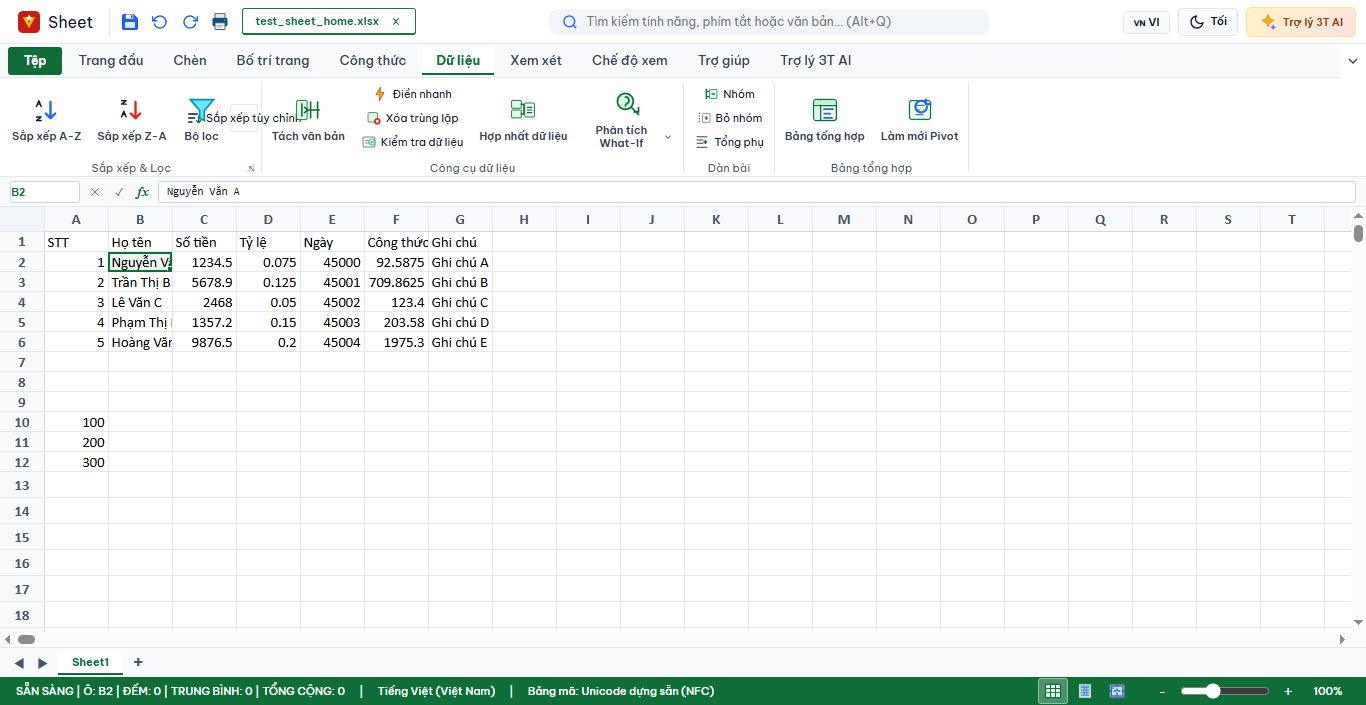
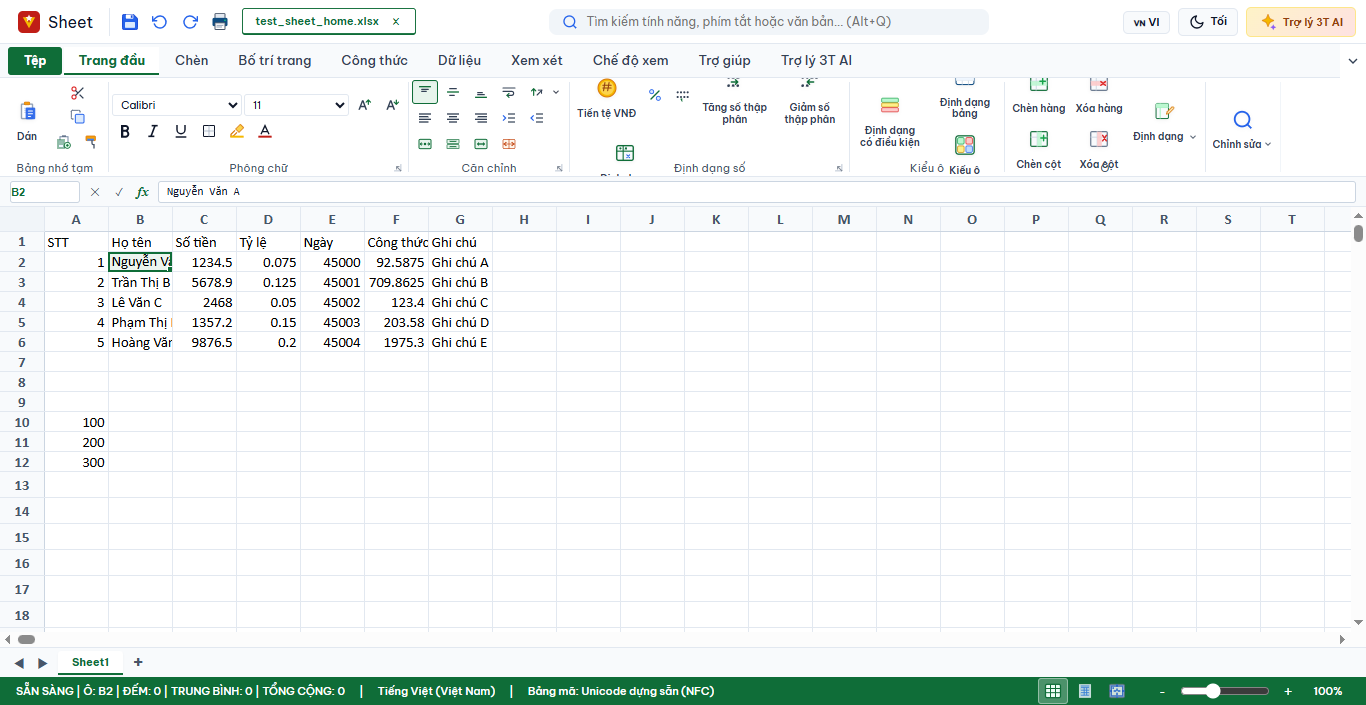
fix(sheet): prevent alignment ribbon overlap

Changed region(s): [[0.0, 0.0624, 0.9224, 0.2496], [0.5227, 0.0624, 0.6457, 0.0936], [0.0922, 0.3433, 0.123, 0.3745]]

diff --git a/apps/sheet/sheet-ribbon.js b/apps/sheet/sheet-ribbon.js
@@ -149,7 +149,7 @@ export const SHEET_RIBBON_TABS = [
               {
                 type: "row",
                 items: [
-                  { type: "button", commandId: "sheet.cell.mergeCenter", isLarge: true },
+                  { type: "button", commandId: "sheet.cell.mergeCenter", iconOnly: true },
                   { type: "button", commandId: "sheet.cell.mergeAcross", iconOnly: true },
                   { type: "button", commandId: "sheet.cell.mergeCells", iconOnly: true },
                   { type: "button", commandId: "sheet.cell.unmerge", iconOnly: true }

diff --git a/scripts/audit-0610/gen_sheet_button_matrix.py b/scripts/audit-0610/gen_sheet_button_matrix.py
@@ -26,6 +26,10 @@ mark(MATCH, "sheet.chart.insert", "FIX-S9: Excel COM read-only xác nhận loạ
 mark(MATCH, "sheet.cell.alignLeft", "FIX-S12 Trang dau: CDP click Can trai; Excel COM ReadOnly xac nhan B2 HorizontalAlignment=-4131 (app_S12_alignLeft.xlsx)")
 mark(MATCH, "sheet.cell.alignCenter", "FIX-S12 nhóm Trang đầu: CDP click căn giữa; Excel COM ReadOnly HAl=-4108 tại B2 (app_alignCenter.xlsx)")
 mark(MATCH, "sheet.cell.alignRight", "FIX-S12 nhóm Trang đầu: CDP click căn phải; Excel COM ReadOnly HAl=-4152 tại B2 (app_alignRight.xlsx)")
+mark(MATCH, "sheet.cell.alignTop", "FIX-S14: Nút Trộn & căn giữa cao 72px làm cột 3 hàng tràn lên che vùng tab; chuyển nó về icon nhỏ có tooltip. CDP bấm Căn trên, Excel COM ReadOnly xác nhận VerticalAlignment(B2)=-4160 (app_S14_fixed_alignTop.xlsx); ảnh docs/tickets-0710/evidence/fix-s12-alignTop.png.")
+mark(MATCH, "sheet.cell.alignMiddle", "FIX-S14: sau khi sửa bố cục nhóm Căn chỉnh, CDP bấm Căn giữa dọc; Excel COM ReadOnly xác nhận VerticalAlignment(B2)=-4108 (app_S14_fixed_alignMiddle.xlsx); ảnh docs/tickets-0710/evidence/fix-s12-alignMiddle.png.")
+mark(MATCH, "sheet.cell.alignBottom", "FIX-S14: sau khi sửa bố cục nhóm Căn chỉnh, CDP bấm Căn dưới; Excel COM ReadOnly xác nhận VerticalAlignment(B2)=-4107 (app_S14_fixed_alignBottom.xlsx); ảnh docs/tickets-0710/evidence/fix-s12-alignBottom.png.")
+mark(MATCH, "sheet.cell.wrapText", "FIX-S14: sau khi sửa bố cục nhóm Căn chỉnh, CDP bấm Ngắt dòng tự động; Excel COM ReadOnly xác nhận WrapText=1, RowHeight=30 cho B2 (app_S14_fixed_wrap.xlsx); ảnh docs/tickets-0710/evidence/fix-s12-wrap.png.")
 mark(MATCH, "sheet.format.currencyVND", "FIX-S12 Trang dau: CDP click Tien te VNĐ; Excel COM ReadOnly doc lai C2=1234.5, NumberFormat=#,##0 [$₫], hien thi 1,235 ₫ (app_S12_currencyBtn.xlsx)")
 mark(MATCH, "sheet.format.percent", "FIX-S12 nhóm Trang đầu: CDP click Phần trăm; Excel COM ReadOnly D2=0.075, NumberFormat=0% (app_percentBtn.xlsx)")
 mark(MATCH, "sheet.format.increaseDecimal", "FIX-S12 nhóm Trang đầu: CDP click Tăng số thập phân; Excel COM ReadOnly C2=1234.5, NumberFormat=0.00 (app_decInc.xlsx)")

diff --git a/docs/tickets-0710/FIX-S12-RESULTS.md b/docs/tickets-0710/FIX-S12-RESULTS.md
@@ -187,17 +187,16 @@
 
 ## S12 continuation in worktree S14 (2026-10-12)
 
-- Starting matrix from main: 72 KHỚP EXCEL / 66 CHƯA ĐỐI CHIẾU. Current generated matrix: **90 KHỚP EXCEL / 1 LỆCH ĐÃ BIẾT / 47 CHƯA ĐỐI CHIẾU**; no evidence was added for failed or inconclusive probes.
+- Starting matrix from main: 72 KHỚP EXCEL / 66 CHƯA ĐỐI CHIẾU. Current generated matrix: **94 KHỚP EXCEL / 1 LỆCH ĐÃ BIẾT / 43 CHƯA ĐỐI CHIẾU**; no evidence was added for failed or inconclusive probes.
 - New read-only Excel COM evidence: Formula named range (`S12Cell -> B2`), `#DIV/0!` error checking, formula recalculation (`F2=92.5875`), image (`Shapes.Count=1`, `TopLeft=B2`), comment insertion/deletion, page size Legal, print scale 80%, row 1 print titles, and page-break insert/remove. Hyperlink export regression fixed in the Sheet adapter/parser; Excel confirms one hyperlink at G2. Existing Vietnamese Help and VI/EN i18n cover hyperlink insertion.
-- Comment Previous/Next remain CHƯA ĐỐI CHIẾU: on a workbook containing comments at C2/D2, real CDP clicks navigated Previous D2→C2 and Next C2→D2 (screenshots in evidence). Excel COM ReadOnly found both comments in the saved XLSX but reopened with `ActiveCell=A1`, so the transient navigation state was not retained for saved-file comparison. Home vertical alignment/wrap remain unchecked; CDP diagnostics show the click did not act on the intended ribbon control. No product behavior was inferred from those clicks.
-- **PASS** `npm test`: 3089/3089.
-- **PASS** `python -m unittest discover -s tests`: 883 tests, 506.094 seconds, OK. Python emitted `ResourceWarning` for open subprocess streams; no test failed.
-- **PASS** dirty-save XLSX batch for lan01/02/04/06/09/11/22/26: 8/8 saved, `diffs=0`, lint clean, Excel PASS. Report: `E:\VNOffice-profiles\codex-fs14\batch-xlsx\batch_document_audit_report.md`.
-- Final verification after the Header/Footer UI fix: **PASS** `npm test` 3089/3089; **FAIL** Python discovery 883 tests with one unrelated repeatable AutoRecover failure, `test_global_count_and_total_byte_limits_prune_old_snapshots` (`status=error`, expected `ok`); the focused test rerun failed the same way. **PASS** dirty-save XLSX batch 8/8 (`saved=yes`, `diffs=0`, lint clean, Excel PASS).
+- Comment Previous/Next remain CHƯA ĐỐI CHIẾU: on a workbook containing comments at C2/D2, real CDP clicks navigated Previous D2→C2 and Next C2→D2 (screenshots in evidence). Excel COM ReadOnly found both comments in the saved XLSX but reopened with `ActiveCell=A1`, so the transient navigation state was not retained for saved-file comparison. No product behavior was inferred from those clicks.
+- Initial baseline before the latest UI fixes: **PASS** `npm test` 3089/3089; **PASS** Python discovery 883 tests in 506.094 seconds; **PASS** dirty-save XLSX batch 8/8 (`saved=yes`, `diffs=0`, lint clean, Excel PASS). The initial Python run emitted subprocess `ResourceWarning`s.
+- Final verification after Header/Footer and alignment fixes: **PASS** `npm test` 3089/3089; **FAIL** Python discovery 883 tests with one Writer HTML test error, `test_real_docx_html_has_data_uri_not_sidecar_path`; focused rerun **PASS** 1/1. An intermediate full run failed `test_global_count_and_total_byte_limits_prune_old_snapshots` and its focused rerun also failed; both failures are outside Sheet and were not modified. **PASS** dirty-save XLSX batch 8/8 (`saved=yes`, `diffs=0`, lint clean, Excel PASS). Report: `E:\VNOffice-profiles\codex-fs14\batch-xlsx\batch_document_audit_report.md`.
 - **PASS** Insert sparklines: real CDP selection of `C2:C6` and ribbon commands created a line or column sparkline in active cell `C6`; Excel COM ReadOnly reported `SparklineGroups.Count=1`, `Type=1` (line) and `Type=2` (column). VI Help and VI/EN i18n already describe the feature; screenshots are in `docs/tickets-0710/evidence/fix-s12-sparkline*.png`.
 - **KNOWN GAP** PivotChart: CDP inserted the Pivot bar chart from an existing PivotTable. Excel COM ReadOnly found `PivotTables=1`, `Charts=1`, `ChartType=51`, but `Chart.PivotLayout.PivotTable.Name` was empty and `PivotFields=0`; it is a regular chart without a Pivot link. Screenshot: `docs/tickets-0710/evidence/fix-s12-pivotChart.png`. Existing Vietnamese Help and VI/EN i18n claim the chart is linked to Pivot data. A real fix requires changing XLSX OOXML semantics, so this is gated for the owner's decision per `AGENTS.md` §11.
 - **PASS** Insert Function: real CDP opened Formula > Insert Function, searched/select `TODAY`, and inserted it in H2. Excel COM ReadOnly confirmed `Formula='=TODAY()'`, `Value2=46307`, `NumberFormat=dd/mm/yyyy` in `app_S14_final_insertFunction.xlsx`; screenshot `docs/tickets-0710/evidence/fix-s12-insertFunction.png`. Existing Vietnamese Help and VI/EN i18n describe the fx dialog and category buttons.
 - **PASS** Use in Formula: opened the workbook containing `S12Cell`, used the name picker to insert it in H2 via CDP, and Excel COM ReadOnly confirmed `Formula='=S12Cell'`, `Value2='Nguyễn Văn A'`, and one defined name in `app_S14_useInFormula.xlsx`; screenshot `docs/tickets-0710/evidence/fix-s12-useInFormula.png`. Existing Help and VI/EN i18n cover the command.
 - `Create from Selection` probe: CDP selected A1:C6 and created three names; Excel COM confirmed `Names.Count=3` and the B2:B6/C2:C6 references. Vietnamese headings normalized to `H__t_n` and `S__ti_n`; exact name normalization versus Excel is not established, so it remains CHƯA ĐỐI CHIẾU.
 - **PASS** Header/Footer: the first probe exposed a clipped right input that sent typing into O3. Scoped the dialog width/input sizing; real CDP filled “Phải” with `VN Office S12`, and Excel COM ReadOnly confirmed `PageSetup.RightHeader='VN Office S12'` in `app_S14_fixed_headerFooter.xlsx`; screenshot `docs/tickets-0710/evidence/fix-s12-headerFooter.png`. Existing Help and VI/EN i18n cover the controls.
-- Matrix generator passed. The S14 CDP probe was refined to choose rendered tab/panel nodes and wait after tab changes. Hit testing for `sheet.cell.alignTop` found its sole command node at `(412,56)` while the Home panel starts at `y=78`; `document.elementFromPoint` resolves the tab strip instead of the command. The runner now rejects this occluded target (`NO_BUTTON`) rather than recording a misleading click. Alignment remains unchecked pending a ribbon layout/input fix. Remaining 47 buttons are unchecked; the PivotChart mismatch is recorded separately as a known gap. FIX-S12 remains open.
+- **PASS** Home alignment: the 72px large Merge & Center button overflowed the 72px alignment column's three rows, pushing the two upper rows 26px into the tab strip. Making Merge & Center an icon button with its tooltip kept all three rows inside the panel. CDP clicked Top/Middle/Bottom; Excel COM ReadOnly confirmed `VerticalAlignment(B2)` = -4160/-4108/-4107. Wrap Text also clicked and Excel confirmed `WrapText=1`, `RowHeight=30`. Evidence: `app_S14_fixed_alignTop.xlsx`, `app_S14_fixed_alignMiddle.xlsx`, `app_S14_fixed_alignBottom.xlsx`, `app_S14_fixed_wrap.xlsx`; screenshots `fix-s12-alignTop.png`, `fix-s12-alignMiddle.png`, `fix-s12-alignBottom.png`, `fix-s12-wrap.png`.
+- Matrix generator passed. The S14 CDP probe chooses rendered tab/panel nodes, checks the hit target, and waits after tab changes. The alignment fix moves the first row to y=80 inside the panel at y=78; all four targeted controls now have Excel COM readback. Remaining 43 buttons are unchecked; the PivotChart mismatch is recorded separately as a known gap. FIX-S12 remains open.

diff --git a/docs/AGENT-HANDOFF-FIX-S12-CODEX-S14.md b/docs/AGENT-HANDOFF-FIX-S12-CODEX-S14.md
@@ -5,14 +5,14 @@ AGENT/ROLE: Codex / Sheet ribbon audit
 BRANCH: `audit/sheet-s14-codex`
 WORKTREE: `E:\VNOffice-codex-fs14`
 OBJECTIVE: Compare the 138 Sheet ribbon commands against Excel using real CDP UI actions and read-only Excel COM inspection of the saved XLSX files.
-FINDINGS: The matrix is now 90 KHỚP EXCEL / 1 LỆCH ĐÃ BIẾT / 47 CHƯA ĐỐI CHIẾU (72/66 at this worktree's start). Hyperlink export was fixed in the adapter/parser and verified in Excel. Formula name/error/recalculation/Insert Function (`=TODAY()`)/Use in Formula (`=S12Cell`), image, both Sparkline types, comments insert/delete, Header/Footer, and page layout actions gained saved-file evidence. Create from Selection is still unchecked because Vietnamese-name normalization has not been compared with Excel. PivotChart is a known gap: Excel COM found no PivotTable link or PivotFields in the exported chart. Comment Previous/Next navigate between C2/D2 in CDP, but remain unchecked because Excel reopens the saved file at A1. Home alignment remains unchecked: hit testing found the `alignTop` node at `(412,56)` under the ribbon tabs while its panel starts at `y=78`, and the hit target is the tab strip. The runner now refuses to count this as a button click. See `docs/tickets-0710/FIX-S12-RESULTS.md` and `docs/SHEET-BUTTON-MATRIX-1011.md`.
+FINDINGS: The matrix is now 94 KHỚP EXCEL / 1 LỆCH ĐÃ BIẾT / 43 CHƯA ĐỐI CHIẾU (72/66 at this worktree's start). Hyperlink export was fixed in the adapter/parser and verified in Excel. Formula name/error/recalculation/Insert Function (`=TODAY()`)/Use in Formula (`=S12Cell`), image, both Sparkline types, comments insert/delete, Header/Footer, vertical alignment, wrap, and page layout actions gained saved-file evidence. Create from Selection is still unchecked because Vietnamese-name normalization has not been compared with Excel. PivotChart is a known gap: Excel COM found no PivotTable link or PivotFields in the exported chart. Comment Previous/Next navigate between C2/D2 in CDP, but remain unchecked because Excel reopens the saved file at A1. The Merge & Center button had made the 3-row alignment column overflow upward; it is now an icon button with tooltip and all four alignment/wrap commands pass readback. See `docs/tickets-0710/FIX-S12-RESULTS.md` and `docs/SHEET-BUTTON-MATRIX-1011.md`.
 IMPLEMENTATION SUMMARY: Reused the existing CDP runner, Excel COM reader, matrix generator, adapter export path, and in-app Help/i18n. Fixed hyperlink persistence in the Sheet FODS save/load path. No LibreOffice Core changes and no new dependencies.
-FILES CHANGED: `apps/sheet/sheet-grid.js`, `apps/sheet/sheet.css`, `adapters/libreoffice/sheet/sheet-adapter.js`, `adapters/libreoffice/sheet/sheet-payload-parser.js`, `tests/unit/sheet-comments-printarea.test.js`, `scripts/audit-0610/gen_sheet_button_matrix.py`, `scripts/audit-0610/word_parallel/app-ops-sheet.desktop.mjs`, `scripts/audit-0610/word_parallel/excel-read.ps1`, `docs/SHEET-BUTTON-MATRIX-1011.md`, `docs/tickets-0710/FIX-S12-RESULTS.md`, and `docs/tickets-0710/evidence/fix-s12-*.png`.
+FILES CHANGED: `apps/sheet/sheet-grid.js`, `apps/sheet/sheet.css`, `apps/sheet/sheet-ribbon.js`, `adapters/libreoffice/sheet/sheet-adapter.js`, `adapters/libreoffice/sheet/sheet-payload-parser.js`, `tests/unit/sheet-comments-printarea.test.js`, `scripts/audit-0610/gen_sheet_button_matrix.py`, `scripts/audit-0610/word_parallel/app-ops-sheet.desktop.mjs`, `scripts/audit-0610/word_parallel/excel-read.ps1`, `docs/SHEET-BUTTON-MATRIX-1011.md`, `docs/tickets-0710/FIX-S12-RESULTS.md`, and `docs/tickets-0710/evidence/fix-s12-*.png`.
 COMMANDS RUN: `npm test`; `python -m unittest discover -s tests`; dirty-save XLSX batch for lan01/02/04/06/09/11/22/26; Sheet matrix generator; CDP + Excel COM read-only probes; `node --check` for the runner; UTF-8/no-BOM scan of changed text files; `git diff --check` for worktree and branch diff.
 BUILD RESULT: NOT RUN separately; no build-system change.
-TEST RESULTS: Final after Header/Footer UI fix: PASS `npm test`, 3089/3089. FAIL Python discovery, 883 tests with one failure: `test_global_count_and_total_byte_limits_prune_old_snapshots` returned `status=error`; focused rerun failed identically. PASS XLSX batch, 8/8 with `saved=yes`, `diffs=0`, lint clean, Excel PASS. Python also emitted subprocess `ResourceWarning`s.
-KNOWN FAILURES: Repeatable AutoRecover test failure is outside the Sheet audit scope and was not modified. Some CDP probes were inconclusive and therefore remain unchecked rather than being represented as Excel parity.
-RISKS: 47 of 138 scanned commands remain unverified; PivotChart is a separate known gap. Current evidence does not establish parity for the remaining Home formatting, formula navigation/tools, comments navigation/resolve, or other remaining commands.
+TEST RESULTS: Final after Header/Footer and alignment fixes: PASS `npm test`, 3089/3089. FAIL Python discovery, 883 tests with one Writer HTML failure: `test_real_docx_html_has_data_uri_not_sidecar_path`; focused rerun passed 1/1. An intermediate full run failed `test_global_count_and_total_byte_limits_prune_old_snapshots` and its focused rerun failed identically. PASS XLSX batch, 8/8 with `saved=yes`, `diffs=0`, lint clean, Excel PASS. Python emitted subprocess `ResourceWarning`s.
+KNOWN FAILURES: Intermittent full Python suite failures are in Writer HTML/AutoRecover, outside the Sheet audit scope; no tests or unrelated implementations were changed. Some CDP probes remain unchecked because evidence did not establish Excel parity.
+RISKS: 43 of 138 scanned commands remain unverified; PivotChart is a separate known gap. Current evidence does not establish parity for the remaining Home formatting, formula navigation/tools, comments navigation/resolve, or other remaining commands.
 DEPENDENCIES/BLOCKERS: Native PivotChart output requires a change to XLSX/OOXML file semantics. Stop for owner decision per `AGENTS.md` §11 and plan per §6 before implementation. Inspect Sheet ribbon layout and command-node geometry, then fix within `apps/sheet/**` if the mispositioned/occluded command is reproducible in the UI. Excel COM must remain ReadOnly and one workbook at a time.
 CORE PATCH ID (if any): None.
 NEXT ACTION: Continue remaining commands by priority, add VI Help/i18n for any feature code changes, update the generator evidence map only after Excel readback, commit each verified group, and rerun required verification after product-code changes.

diff --git a/docs/SHEET-BUTTON-MATRIX-1011.md b/docs/SHEET-BUTTON-MATRIX-1011.md
@@ -5,7 +5,7 @@ Nguồn nút: `docs/ribbon-scan-sheet-1011.json`. Chỉ đánh dấu **KHỚP EX
 - **KHÁC CÓ CHỦ Ý**: khác biệt được thiết kế có chủ ý và có giải thích.
 - **LỆCH ĐÃ BIẾT**: sai khác đã được tái hiện và còn tồn tại.
 - **CHƯA ĐỐI CHIẾU**: chưa có đối chiếu Excel đủ chứng cứ.
-Tổng 138 nút — KHỚP EXCEL: 90 · LỆCH ĐÃ BIẾT: 1 · CHƯA ĐỐI CHIẾU: 47.
+Tổng 138 nút — KHỚP EXCEL: 94 · LỆCH ĐÃ BIẾT: 1 · CHƯA ĐỐI CHIẾU: 43.
 
 Các nút nguy hiểm/ngoại tuyến hoặc nút AI không được chạy trong lượt này sẽ giữ **CHƯA ĐỐI CHIẾU** cho tới khi có phép thử an toàn và xác định rõ luồng dữ liệu.
 
@@ -26,10 +26,10 @@ Các nút nguy hiểm/ngoại tuyến hoặc nút AI không được chạy tron
 | Trang đầu | `sheet.cell.borders` | Viền ô | KHỚP EXCEL | FIX-S12 Trang đầu: CDP bấm màu nền/màu chữ/viền; Excel COM ReadOnly xác nhận Fill=65535, Font.Color=255 và bốn Border.LineStyle=1 | dom:15 |
 | Trang đầu | `sheet.cell.fillColor` | Màu nền | KHỚP EXCEL | FIX-S12 Trang đầu: CDP bấm màu nền/màu chữ/viền; Excel COM ReadOnly xác nhận Fill=65535, Font.Color=255 và bốn Border.LineStyle=1 | dom:15 |
 | Trang đầu | `sheet.cell.textColor` | Màu chữ | KHỚP EXCEL | FIX-S12 Trang đầu: CDP bấm màu nền/màu chữ/viền; Excel COM ReadOnly xác nhận Fill=65535, Font.Color=255 và bốn Border.LineStyle=1 | dom:15 |
-| Trang đầu | `sheet.cell.alignTop` | Căn trên | CHƯA ĐỐI CHIẾU | Chưa có chứng cứ Excel COM gắn với command ID này. | dom:21 |
-| Trang đầu | `sheet.cell.alignMiddle` | Căn giữa dọc | CHƯA ĐỐI CHIẾU | Chưa có chứng cứ Excel COM gắn với command ID này. | dom:7 |
-| Trang đầu | `sheet.cell.alignBottom` | Căn dưới | CHƯA ĐỐI CHIẾU | Chưa có chứng cứ Excel COM gắn với command ID này. | dom:7 |
-| Trang đầu | `sheet.cell.wrapText` | Ngắt dòng tự động | CHƯA ĐỐI CHIẾU | Chưa có chứng cứ Excel COM gắn với command ID này. | dom:19 |
+| Trang đầu | `sheet.cell.alignTop` | Căn trên | KHỚP EXCEL | FIX-S14: Nút Trộn & căn giữa cao 72px làm cột 3 hàng tràn lên che vùng tab; chuyển nó về icon nhỏ có tooltip. CDP bấm Căn trên, Excel COM ReadOnly xác nhận VerticalAlignment(B2)=-4160 (app_S14_fixed_alignTop.xlsx); ảnh docs/tickets-0710/evidence/fix-s12-alignTop.png. | dom:21 |
+| Trang đầu | `sheet.cell.alignMiddle` | Căn giữa dọc | KHỚP EXCEL | FIX-S14: sau khi sửa bố cục nhóm Căn chỉnh, CDP bấm Căn giữa dọc; Excel COM ReadOnly xác nhận VerticalAlignment(B2)=-4108 (app_S14_fixed_alignMiddle.xlsx); ảnh docs/tickets-0710/evidence/fix-s12-alignMiddle.png. | dom:7 |
+| Trang đầu | `sheet.cell.alignBottom` | Căn dưới | KHỚP EXCEL | FIX-S14: sau khi sửa bố cục nhóm Căn chỉnh, CDP bấm Căn dưới; Excel COM ReadOnly xác nhận VerticalAlignment(B2)=-4107 (app_S14_fixed_alignBottom.xlsx); ảnh docs/tickets-0710/evidence/fix-s12-alignBottom.png. | dom:7 |
+| Trang đầu | `sheet.cell.wrapText` | Ngắt dòng tự động | KHỚP EXCEL | FIX-S14: sau khi sửa bố cục nhóm Căn chỉnh, CDP bấm Ngắt dòng tự động; Excel COM ReadOnly xác nhận WrapText=1, RowHeight=30 cho B2 (app_S14_fixed_wrap.xlsx); ảnh docs/tickets-0710/evidence/fix-s12-wrap.png. | dom:19 |
 | Trang đầu | `sheet.cell.alignLeft` | Căn trái | KHỚP EXCEL | FIX-S12 Trang dau: CDP click Can trai; Excel COM ReadOnly xac nhan B2 HorizontalAlignment=-4131 (app_S12_alignLeft.xlsx) | dom:1 |
 | Trang đầu | `sheet.cell.alignCenter` | Căn giữa | KHỚP EXCEL | FIX-S12 nhóm Trang đầu: CDP click căn giữa; Excel COM ReadOnly HAl=-4108 tại B2 (app_alignCenter.xlsx) | dom:1 |
 | Trang đầu | `sheet.cell.alignRight` | Căn phải | KHỚP EXCEL | FIX-S12 nhóm Trang đầu: CDP click căn phải; Excel COM ReadOnly HAl=-4152 tại B2 (app_alignRight.xlsx) | dom:1 |
